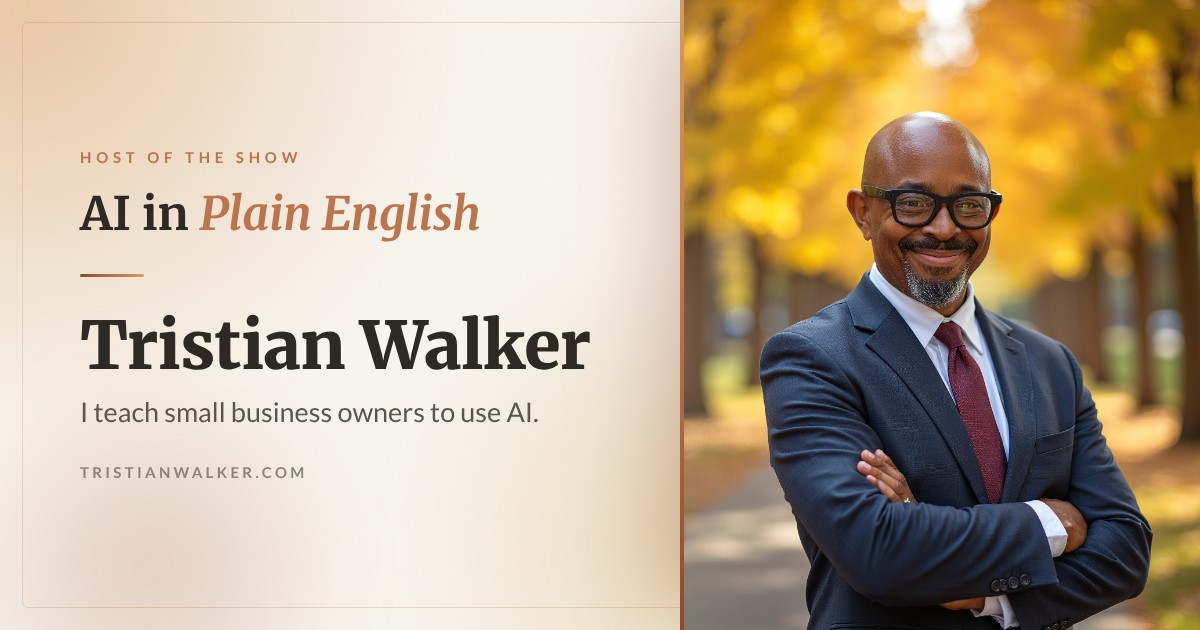
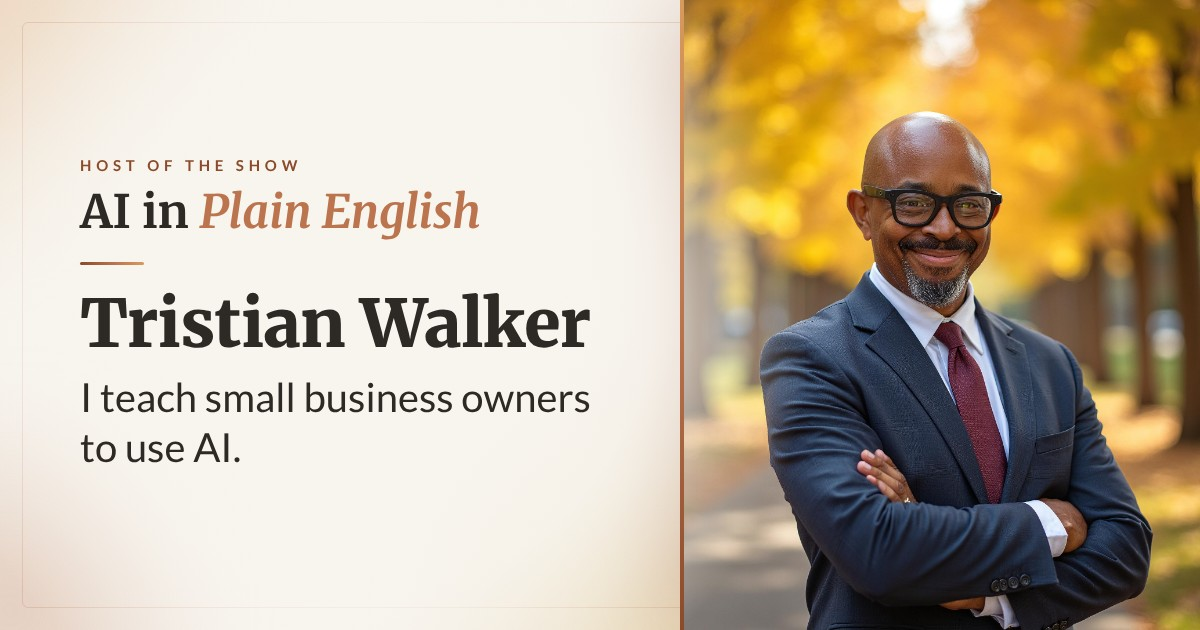
Social kit: fix Terra's three findings; drop unverified newsletter quote
Banners lose the name and link row (the profile carries both) and keep
one supporting line at 44 to 52px. Small text moves to the deep accent,
and a cream pool shaped to the copy keeps the sienna display word above
3:1 over the warm light. The share card drops the URL and sets the
promise as a two-line block under the name. render.mjs now measures
contrast on the rendered background and refuses to bake below the bar.

The newsletter sample card no longer quotes a letter nothing in the
record supports, and its "sample, last month's letter" row is gone.

Claude-Session: https://claude.ai/code/session_01VKju15jzr7ysAyfi5sD9R5

Changed region(s): [[0.0, 0.0, 0.6783, 1.0], [0.0, 0.9048, 0.0308, 1.0]]

diff --git a/scripts/social-kit/kit.html b/scripts/social-kit/kit.html
@@ -37,24 +37,22 @@ body{position:relative;font-family:var(--font-body);color:var(--text-main);-webk
 .safe{position:absolute;display:flex;flex-direction:column;justify-content:center}
 .safe.left{align-items:flex-start;text-align:left}
 .safe.center{align-items:center;text-align:center}
-.eyebrow{font:700 calc(var(--u)*15px)/1 var(--font-body);letter-spacing:.32em;text-transform:uppercase;color:var(--accent-primary)}
+/* Small text uses the deep accent: #BC744E measures about 3.4:1 on cream, #8B4A2A clears 4.5:1. */
+.eyebrow{font:700 calc(var(--u)*15px)/1 var(--font-body);letter-spacing:.32em;text-transform:uppercase;color:var(--accent-deep)}
 .name{font:900 calc(var(--u)*66px)/1.05 var(--font-heading);letter-spacing:-.01em;color:var(--text-main)}
 .line{font:400 calc(var(--u)*27px)/1.35 var(--font-body);color:var(--text-muted)}
-.line b{font-weight:700;color:var(--text-main)}
 .rule{width:calc(var(--u)*64px);height:calc(var(--u)*3px);border-radius:2px;background:linear-gradient(90deg,#8B4A2A,#BC744E 55%,#D89A5C)}
 .show{font:700 calc(var(--u)*46px)/1.1 var(--font-heading);color:var(--text-main)}
 .show em{font-style:italic;color:var(--accent-primary)}
-.url{font:700 calc(var(--u)*15px)/1 var(--font-body);letter-spacing:.22em;text-transform:uppercase;color:var(--text-subtle)}
+.card .line{font-size:40px;line-height:1.25;color:var(--text-main)}
 .gap-s{height:calc(var(--u)*14px)} .gap-m{height:calc(var(--u)*24px)} .gap-l{height:calc(var(--u)*34px)}
 
-/* Banner variant: the show leads, the name signs it. */
+/* Banner variant: the show leads; the profile itself carries his name and link. */
 .banner .show{font-size:calc(var(--u)*70px)}
 .banner .orb{opacity:1.25}
 .banner .orb.o1{background:radial-gradient(circle at 30% 30%, rgba(216,154,92,.62), rgba(188,116,78,0) 70%)}
-.banner .line{font-size:calc(var(--u)*25px)}
-.sig{display:flex;align-items:center;gap:calc(var(--u)*16px);font:700 calc(var(--u)*16px)/1 var(--font-body);letter-spacing:.24em;text-transform:uppercase;color:var(--text-main)}
-.sig .dot{width:calc(var(--u)*6px);height:calc(var(--u)*6px);border-radius:50%;background:var(--accent-primary)}
-.sig .muted{color:var(--text-subtle)}
+.banner .line{font-size:var(--line-px);color:var(--text-main)}
+.banner .eyebrow{font-size:calc(var(--u)*20px)}
 
 /* Portrait panel (share card only). Never any text over it. */
 .portrait{position:absolute;top:0;right:0;height:100%;overflow:hidden;
@@ -62,6 +60,10 @@ body{position:relative;font-family:var(--font-body);color:var(--text-main);-webk
 .portrait img{width:100%;height:100%;object-fit:cover;object-position:52% 30%;display:block}
 .portrait::before{content:"";position:absolute;inset:0 auto 0 0;width:4px;background:linear-gradient(180deg,#D89A5C,#BC744E 50%,#8B4A2A);z-index:2}
 .portrait::after{content:"";position:absolute;inset:0;background:linear-gradient(90deg,rgba(248,245,239,.18),rgba(248,245,239,0) 18%);z-index:1}
+
+/* A cream pool shaped to the copy, so the warm light stays at the edges and the
+   sienna display word keeps 3:1 wherever it sits. */
+.halo{position:absolute;pointer-events:none;background:radial-gradient(ellipse at center, rgba(248,245,239,.92) 0%, rgba(248,245,239,.80) 45%, rgba(248,245,239,0) 72%)}
 
 /* Review-only guides, turned on with --guides. */
 .guide{position:absolute;border:2px dashed rgba(255,0,0,.7);z-index:99}
@@ -76,30 +78,30 @@ const F = %%FORMAT%%;
 const PORTRAIT = "%%PORTRAIT%%";
 const r = document.documentElement.style;
 r.setProperty('--w', F.w + 'px'); r.setProperty('--h', F.h + 'px'); r.setProperty('--u', F.u);
+if (F.linePx) r.setProperty('--line-px', F.linePx + 'px');
 document.body.classList.add(F.kind);
 F.orbs.forEach((o, i) => Object.assign(document.querySelectorAll('.orb')[i].style,
   { left: o[0] + 'px', top: o[1] + 'px', width: o[2] + 'px', height: o[2] + 'px' }));
 const c = document.getElementById('content');
+const halo = s => `<div class="halo" style="left:${s.x - s.w * 0.25}px;top:${s.y - s.h * 0.35}px;width:${s.w * 1.5}px;height:${s.h * 1.7}px"></div>`;
 const box = (s, cls) => `<div class="safe ${cls}" style="left:${s.x}px;top:${s.y}px;width:${s.w}px;height:${s.h}px">`;
 if (F.kind === 'card') {
   c.innerHTML = `
     <div class="portrait" style="width:${F.portraitW}px"><img src="${PORTRAIT}" alt=""></div>
-    ${box(F.safe, 'left')}
-      <div class="eyebrow">Host of the show</div><div class="gap-m"></div>
-      <div class="show">AI in <em>Plain English</em></div><div class="gap-l"></div>
-      <div class="rule"></div><div class="gap-l"></div>
+    ${halo(F.safe)}${box(F.safe, 'left')}
+      <div class="eyebrow">Host of the show</div><div class="gap-s"></div>
+      <div class="show">AI in <em>Plain English</em></div><div class="gap-m"></div>
+      <div class="rule"></div><div class="gap-m"></div>
       <div class="name">Tristian Walker</div><div class="gap-s"></div>
-      <div class="line">I teach small business owners to use AI.</div><div class="gap-l"></div>
-      <div class="url">tristianwalker.com</div>
+      <div class="line">I teach small business owners<br>to use AI.</div>
     </div>`;
 } else {
   c.innerHTML = `
-    ${box(F.safe, F.align)}
+    ${halo(F.safe)}${box(F.safe, F.align)}
       <div class="eyebrow">The show</div><div class="gap-m"></div>
       <div class="show">AI in <em>Plain English</em></div><div class="gap-m"></div>
       <div class="rule"></div><div class="gap-m"></div>
-      <div class="line">I teach small business owners to use AI. <b>One idea each episode.</b></div><div class="gap-l"></div>
-      <div class="sig"><span>Tristian Walker</span><span class="dot"></span><span class="muted">tristianwalker.com</span></div>
+      <div class="line">I teach small business owners to use AI.</div>
     </div>`;
 }
 if (F.guides) (F.guideBoxes || []).forEach(g => c.insertAdjacentHTML('beforeend',

diff --git a/src/components/Newsletter.jsx b/src/components/Newsletter.jsx
@@ -216,18 +216,6 @@ export default function Newsletter() {
               From the desk of —
             </div>
 
-            <p
-              style={{
-                fontFamily: 'var(--font-heading)',
-                fontSize: '1.05rem',
-                lineHeight: 1.65,
-                color: 'var(--text-main)',
-                margin: '0 0 1.25rem',
-              }}
-            >
-              "The line between motion and movement is rarely visible from inside the day. This month I asked twelve readers a single question, and what came back surprised me…"
-            </p>
-
             <div
               style={{
                 fontFamily: 'var(--font-heading)',
@@ -240,23 +228,6 @@ export default function Newsletter() {
               — T.
             </div>
 
-            <div
-              style={{
-                marginTop: '1.5rem',
-                paddingTop: '1rem',
-                borderTop: '1px dashed rgba(140,70,40,0.20)',
-                fontSize: '9.5px',
-                letterSpacing: '0.3em',
-                textTransform: 'uppercase',
-                fontWeight: 700,
-                color: 'var(--text-subtle)',
-                display: 'flex',
-                justifyContent: 'space-between',
-              }}
-            >
-              <span>A sample · last month's letter</span>
-              <span style={{ color: 'var(--accent-primary)' }}>9 min read</span>
-            </div>
           </motion.div>
 
           <p
